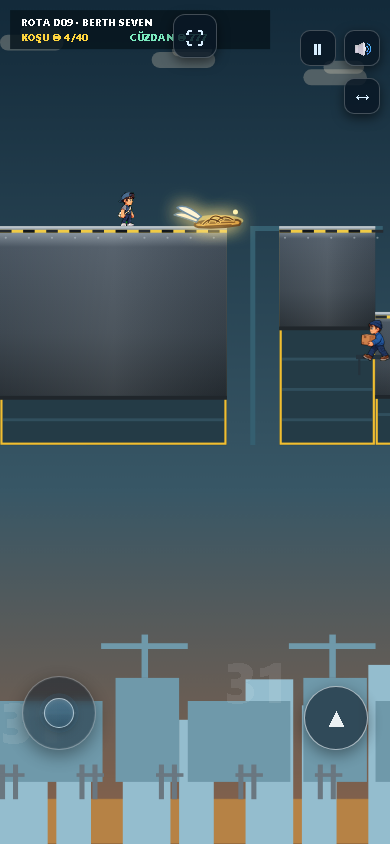
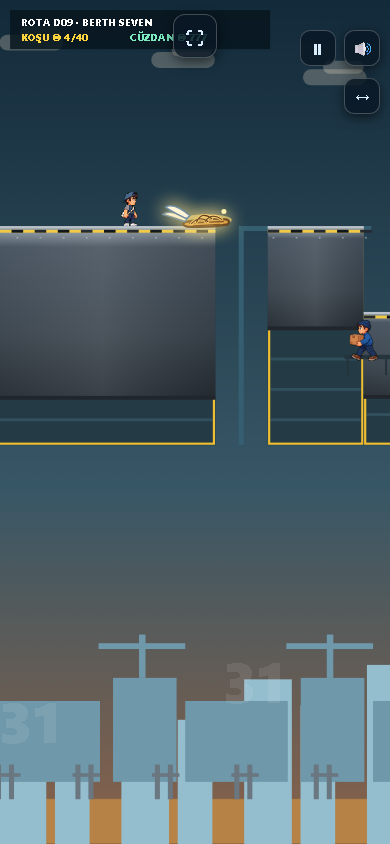
HUD overlay kutusunu kaldir

diff --git a/js/a12-campaign.js b/js/a12-campaign.js
@@ -3774,8 +3774,6 @@ applyD09LogicRulesToRoutes();
     ctx = c;
     renderFrameCount++;
     document.body.dataset.playerX = String(Math.round(player.x));
-    c.fillStyle = "#07151dd9";
-    c.fillRect(14, 14, 360, 54);
     c.fillStyle = "#fff";
     c.font = "900 14px system-ui";
     c.fillText(`${t("route")} ${routeId} · ${(["magma","aftermath"].includes(route.worldId) ? t(route.routeId) : route.name)}`, 29, 36);

diff --git a/03-test/manager-preview/hud-arka/ozet.md b/03-test/manager-preview/hud-arka/ozet.md
@@ -1,8 +1,20 @@
-# HUD Arka Plan Kutusu
+# HUD Arka Plan Kutusu RET Duzeltmesi
 
-- Degisiklik: sol ust kampanya HUD panelindeki koyu dolgu/kose yuvarlama kutusu kaldirildi.
-- Korunanlar: HUD yazilari ayni konum, font, boyut ve renklerle cizilmeye devam eder.
-- Kapsam: `js/a12-campaign.js` icinde yalniz `drawHud()` arka plan cizimi degisti; sag ust dugmeler, alt ipucu, oyun fizigi ve rota verisi degismedi.
+- Aktif kod kaniti: cache'siz Playwright kosusunda canvas `fillRect(14,14,360,54)` stack'i `Object.drawOverlayIntegrated [as drawOverlay] (js/a12-campaign.js:3778)` olarak yakalandi.
+- Onceki commit `drawHud()` yolundaki kutuyu kaldirmisti; ekrandaki panel entegre overlay yolundan geliyordu.
+- Duzeltme: `drawOverlayIntegrated()` icindeki `#07151dd9` dolgu ve `fillRect(14,14,360,54)` kaldirildi.
+- Korunanlar: HUD yazilari ayni konum/font/boyut/renklerle cizilmeye devam ediyor.
+- Cache onlemi: kareler yerel HTTP sunucusunda `Cache-Control: no-store` ve benzersiz `hud_cache_bust` query ile yeniden alindi.
+
+## Piksel Kiyaslari
+
+`before-390x844.png` -> `after-390x844.png`, y=40:
+
+- x=20: `(18,32,39)` -> `(80,93,98)`; delta `(+62,+61,+59)`
+- x=150: `(9,24,34)` -> `(22,45,61)`; delta `(+13,+21,+27)`
+- x=250: `(9,24,34)` -> `(22,45,61)`; delta `(+13,+21,+27)`
+
+Tum viewportun ayni olcum noktalarinda panel dolgusu artik yakalanmiyor; after runtime canvas logunda `#07151dd9` / `fillRect(14,14,360,54)` cagrisi `0`.
 
 ## Kareler
 
@@ -16,5 +28,5 @@
 
 - PASS: `node C:/Users/Arget/AppData/Roaming/npm/node_modules/playwright/cli.js test --workers=1 --reporter=line 03-test/player-visible-ui.spec.cjs` -> 4/4 passed.
 - PASS: `node C:/Users/Arget/AppData/Roaming/npm/node_modules/playwright/cli.js test --workers=1 --reporter=line 03-test/tn-a12.spec.cjs -g "campaign-i18n-complete"` -> 1/1 passed.
-- FAIL (tekrarlandi): `03-test/player-visible-mobile.spec.cjs -g "fullscreen control"` -> fullscreen button portrait hide beklentisi; HUD kutusu degisikligiyle ilgili degil.
-- FAIL (tekrarlandi): `03-test/player-visible-mobile.spec.cjs -g "landscape campaign framing"` -> D01 Bot S framing min ayagi `.25` altinda; HUD kutusu degisikligiyle ilgili degil.
+- FAIL (oncekiyle ayni): `node C:/Users/Arget/AppData/Roaming/npm/node_modules/playwright/cli.js test --workers=1 --reporter=line 03-test/player-visible-mobile.spec.cjs` -> 4/6 passed, 2 failed.
+- Mobil failure'lar: `fullscreen control is reachable in landscape without covering play UI`, `landscape campaign framing keeps the runner in the lower gameplay band`; HUD kutusu disi davranislar.
